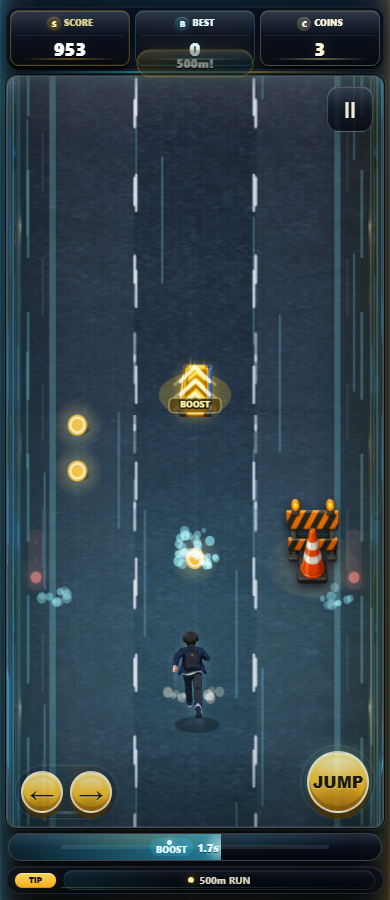
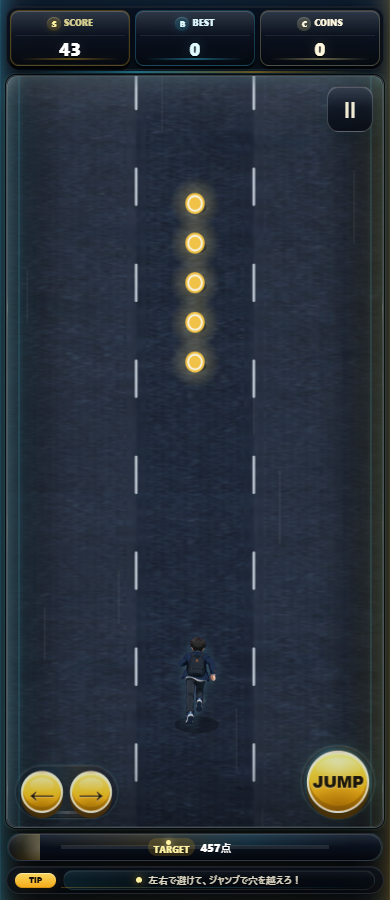
Refresh PWA screenshots

diff --git a/tools/validate-runner.js b/tools/validate-runner.js
@@ -140,6 +140,30 @@ assert(iconSizes.has("512x512"), "manifest is missing a 512x512 icon");
 const screenshotSizes = new Set((manifest.screenshots || []).map((screenshot) => screenshot.sizes));
 assert(screenshotSizes.has("390x900"), "manifest is missing narrow app screenshots");
 
+function pngDimensions(ref) {
+  const buffer = fs.readFileSync(path.join(root, ref.replace(/^\.\//, "")));
+  const isPng = buffer.length >= 24
+    && buffer[0] === 0x89
+    && buffer[1] === 0x50
+    && buffer[2] === 0x4e
+    && buffer[3] === 0x47;
+  assert(isPng, `${ref} should be a PNG file`);
+  return {
+    width: buffer.readUInt32BE(16),
+    height: buffer.readUInt32BE(20)
+  };
+}
+
+for (const screenshot of manifest.screenshots || []) {
+  if (!screenshot.src || !screenshot.sizes) continue;
+  const [expectedWidth, expectedHeight] = screenshot.sizes.split("x").map(Number);
+  const { width, height } = pngDimensions(screenshot.src);
+  assert(
+    width === expectedWidth && height === expectedHeight,
+    `Screenshot dimensions do not match manifest: ${screenshot.src} is ${width}x${height}, expected ${screenshot.sizes}`
+  );
+}
+
 if (process.exitCode) process.exit(process.exitCode);
 
 console.log(`runner validation ok (${refs.size} refs, ${requiredPreloads.length} required preloads)`);
